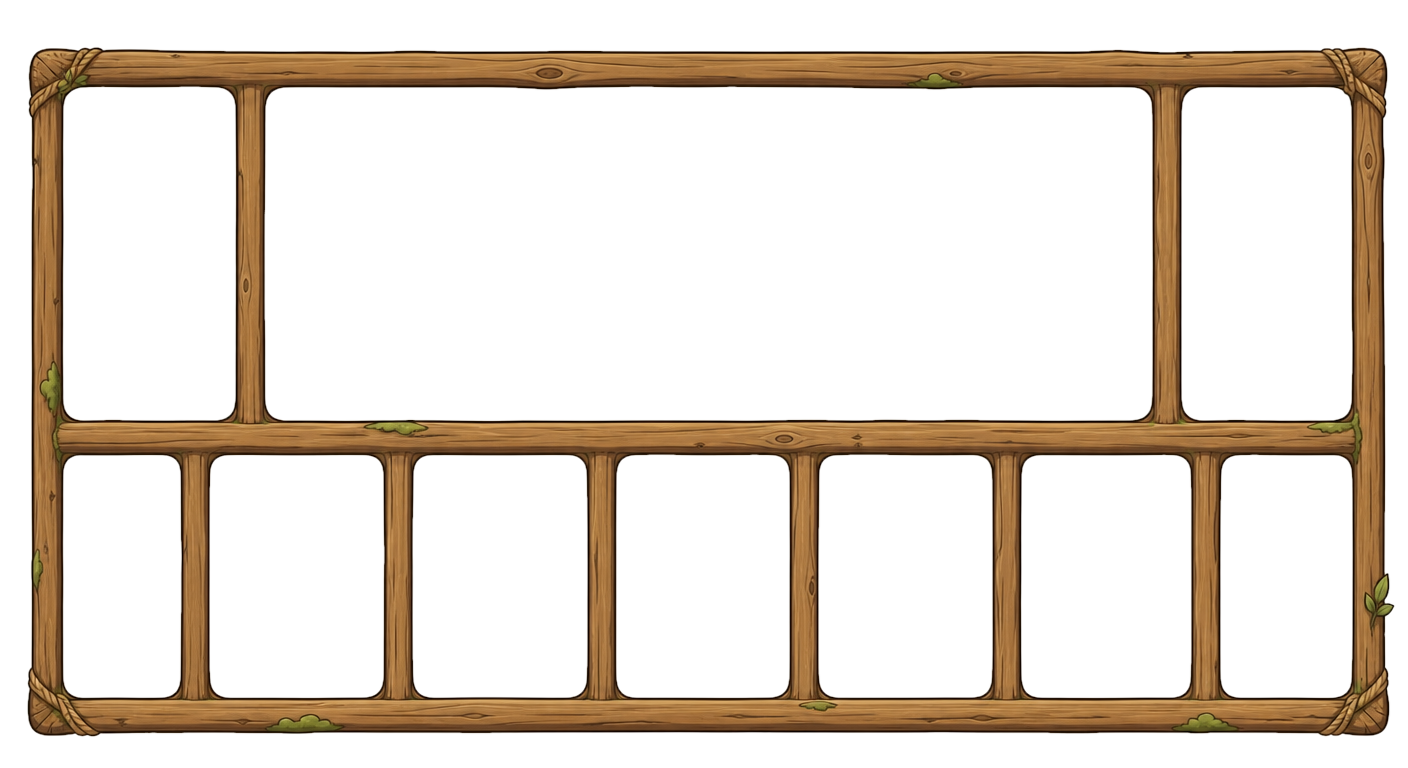
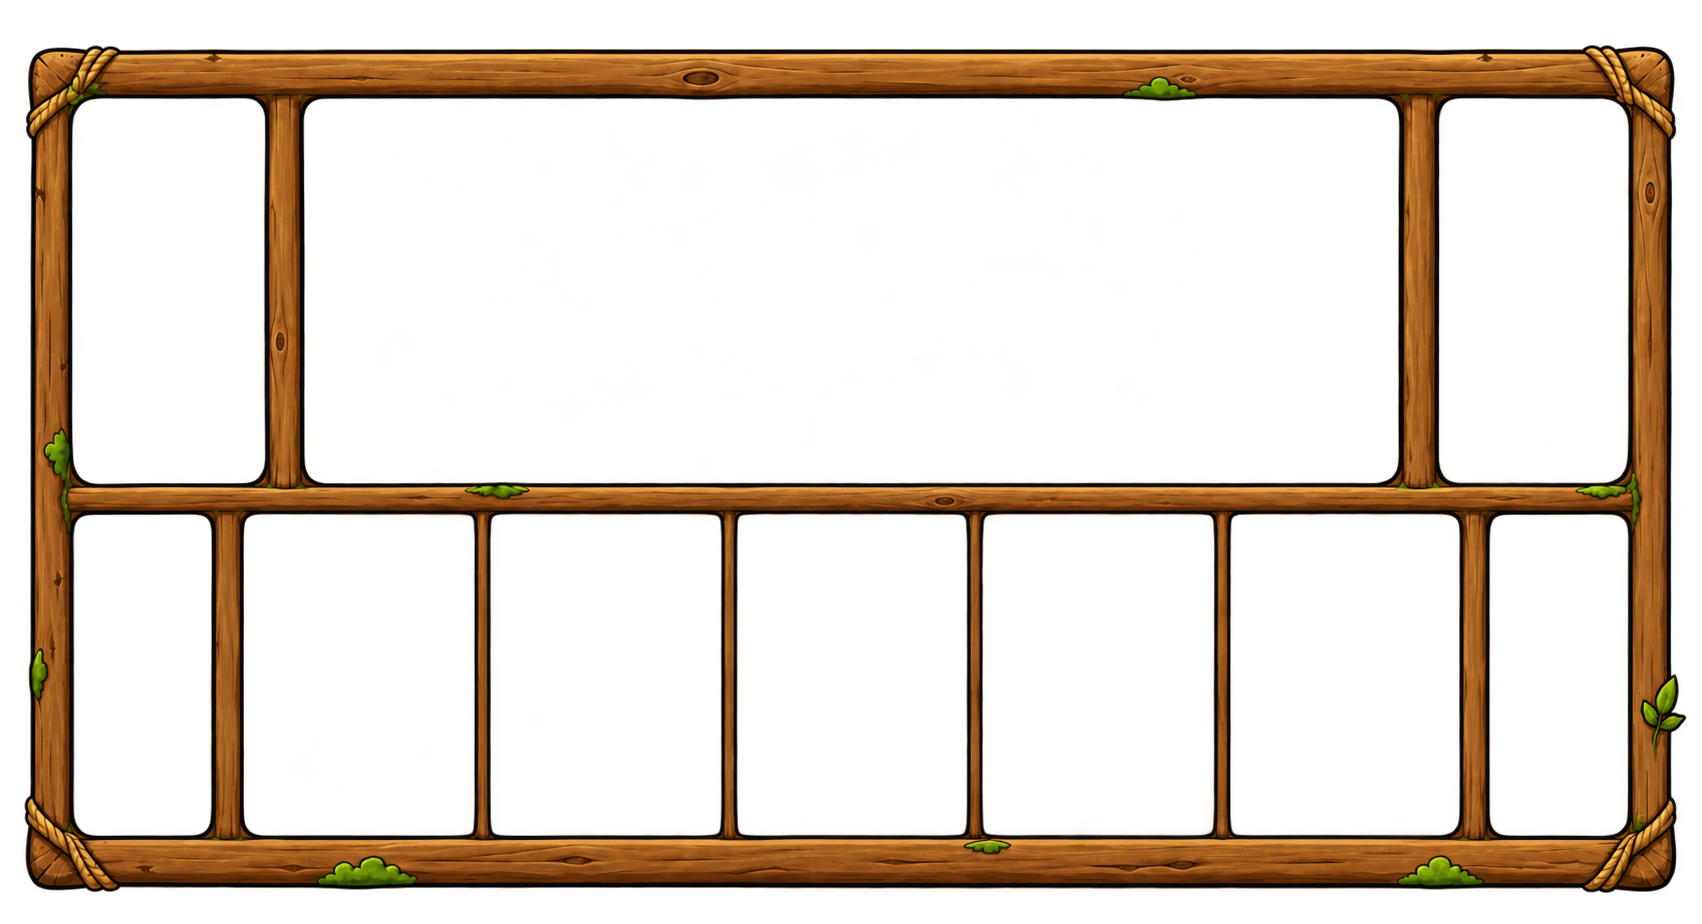
feat: play_frame을 새 그림으로 교체(1654×847) — 경험치 줄을 칸 폭에 맞춤
받은 그림은 나무가 얇아져 칸이 넓어졌다. 지난번 정한 대로 **왼쪽 절반을 뒤집어**
대칭으로 만든 뒤(`mirrorPlayFrame.mjs`) 잘랐다.

    받은 원본  1661×848 — 바깥 여백 좌 6 / 우 15, 바깥 기둥 43 / 47 (오른쪽이 넓다)
    대칭본     1654×847 — 좌우 차이 전부 0

칸 좌표·카드 grid·안내 쪽지 자리·모서리 반지름(22 → 14)을 새 실측으로 갈고,
세로 예산도 함께 고쳤다(0.586 → **0.588**, 액자 비율 690/1352 → 847/1654).
⚠ 이 둘은 짝이다 — 비율만 고치면 세로가 넘치거나 아래가 크게 남는다.

## ⚠ 칸이 좁아지자 경험치 줄이 터졌다
새 액자는 경험치 칸이 12.648% → **11.669%**로 좁다(1366에서 167 → 150px).
그런데 줄 안의 얼굴이 `w-16`(64px) **고정**이라, 레벨 배지와 둘이 폭을 다 먹고
"0/10"의 끝자리가 얼굴 뒤로 들어갔다.

칸 폭(`--exp-w` = 액자 폭 × 칸 비율)에서 얼굴·글씨·게이지·여백을 모두 뽑도록 바꿨다.
액자를 또 갈아끼워 칸 비율이 달라져도 내용이 따라간다 —
⚠ 다만 `--exp-w`의 0.11669는 `.play-cell-exp-*`의 width와 **같은 값**이라 함께 고칠 것.

## 검증
1920에서 액자 x 60 · 폭 1800, 팀 패널 안쪽 여백 좌우 51px로 같다. 1366에서 경험치
네 줄이 겹침 없이 칸 안에 들어간다(확대해 확인). 세 해상도 × 두 단계 넘침 0,
tsc·server 63/63·빌드 통과.

Changed region(s): [[0.0, 0.0312, 1.0, 0.9688]]

diff --git a/client/app/globals.css b/client/app/globals.css
@@ -8,14 +8,14 @@
 
      폭은 **세로 예산**이 정한다 — 둘을 쌓은 높이가 화면을 넘으면 안 되므로:
        상단 바 보이는 높이   W × 189/2500 = 0.0756 W
-       액자 높이             W × 690/1352 = 0.5104 W
-       합                                 ≈ 0.586 W  ≤ 98vh
+       액자 높이             W × 847/1654 = 0.5121 W
+       합                                 ≈ 0.588 W  ≤ 98vh
      가로로는 --stage-pad만큼 양옆을 비운다 — 화면을 꽉 채우지 않는다.
 
-     ⚠ 액자 그림을 갈아끼우면 690/1352과 0.586을 **함께** 고칠 것. 비율만 고치고
-     0.586을 두면 세로가 넘치거나 아래가 크게 남는다. */
+     ⚠ 액자 그림을 갈아끼우면 847/1654와 0.588을 **함께** 고칠 것. 비율만 고치고
+     0.588을 두면 세로가 넘치거나 아래가 크게 남는다. */
   --stage-pad: 2.5vw;
-  --stage-w: min(calc(100vw - var(--stage-pad) * 2), calc(98vh / 0.586));
+  --stage-w: min(calc(100vw - var(--stage-pad) * 2), calc(98vh / 0.588));
   /* 상단 바와 액자 사이 숨통 — 0이면 두 나무가 맞닿아 한 덩어리로 보인다 */
   --stage-gap: 0.8vh;
   --beam-h: calc(var(--stage-w) * 233 / 2500);
@@ -3788,7 +3788,7 @@ body {
      액자 윗변 = 상단 바가 먹은 높이 + (남은 높이 − 액자 높이) / 2
    ⚠ 액자 그림을 갈아끼우면 690/1352를 `.play-frame`과 **함께** 고칠 것. */
 .play-progress-top {
-  --pf-h: calc(var(--stage-w) * 690 / 1352);
+  --pf-h: calc(var(--stage-w) * 847 / 1654);
   --frame-top: calc(var(--beam-vis) + (100vh - var(--beam-vis) - var(--pf-h)) / 2);
   /* 액자 윗변에 **반쯤 걸친다** — 절반은 그 위로 뜬다.
      ⚠ 더 위로 올리면 단계 판의 알약("행동 선택")을 가린다. 판이 들보를 거의 꽉
@@ -3996,9 +3996,9 @@ body {
      폭이 어긋난다. 세로가 넘치지 않는 것은 --stage-w가 이미 "상단 바 + 액자"를
      함께 세어 정하기 때문이다(:root 주석 참고). */
   --pf-w: var(--stage-w);
-  --pf-h: calc(var(--pf-w) * 690 / 1352);
-  /* 칸 모서리 둥글기 — 그림에서 잰 값이 칸마다 14~31px이라 22px 하나로 묶고 배율만큼 줄인다 */
-  --cell-r: calc(var(--pf-w) * 22 / 1352);
+  --pf-h: calc(var(--pf-w) * 847 / 1654);
+  /* 칸 모서리 둥글기 — 그림에서 잰 값이 칸마다 5~21px이라 14px 하나로 묶고 배율만큼 줄인다 */
+  --cell-r: calc(var(--pf-w) * 14 / 1654);
 
   position: relative;
   width: var(--pf-w);
@@ -4019,29 +4019,44 @@ body {
   background: var(--cell-paper, #fee9bb);
 }
 
+/* ── 경험치 줄의 치수 — **칸 폭에서 뽑는다** ─────────────────────────────────
+   칸 폭은 액자 그림이 정하는 값이라 그림을 갈아끼우면 달라진다. 고정 rem으로 두면
+   좁아진 칸에서 얼굴이 숫자를 덮는다 — 실제로 얼굴 64px + 레벨 배지가 폭을 다 먹어
+   "0/10"의 끝자리가 얼굴 뒤로 들어갔다(1366에서 칸이 167 → 150px로 줄었을 때).
+   --exp-w는 칸의 실제 폭이다(액자 폭 × 칸 비율). */
+.play-cell-exp-a,
+.play-cell-exp-b { --exp-w: calc(var(--pf-w) * 0.11669); }
+.exp-row      { gap: calc(var(--exp-w) * 0.035); padding-inline: calc(var(--exp-w) * 0.035); }
+.exp-row-face { width: calc(var(--exp-w) * 0.26); height: calc(var(--exp-w) * 0.26); }
+.exp-row-lv   { padding-inline: calc(var(--exp-w) * 0.045); }
+.exp-row-lv-cap { font-size: calc(var(--exp-w) * 0.062); }
+.exp-row-lv-num { font-size: calc(var(--exp-w) * 0.16); }
+.exp-row-value  { font-size: calc(var(--exp-w) * 0.12); }
+.exp-row-bar    { height: calc(var(--exp-w) * 0.07); }
+
 /* 윗줄 — 좌우 여백이 2.737%로 **같다**(왼쪽 절반을 뒤집어 붙인 그림이라 정의상 대칭) */
-.play-cell-exp-a { left:  2.737%; top:  5.797%; width: 12.648%; height: 48.261%; }
-.play-cell-board { left: 17.604%; top:  5.797%; width: 64.793%; height: 48.261%; }
-.play-cell-exp-b { left: 84.615%; top:  5.797%; width: 12.648%; height: 48.261%; }
+.play-cell-exp-a { left:  2.842%; top:  6.257%; width: 11.669%; height: 45.573%; }
+.play-cell-board { left: 16.868%; top:  6.257%; width: 66.264%; height: 45.455%; }
+.play-cell-exp-b { left: 85.490%; top:  6.257%; width: 11.669%; height: 45.573%; }
 
 /* 아랫줄 양 끝 — 체력. 카드칸(12.87%)보다 좁아야 한다는 조건은 그대로다(8.654%) */
-.play-cell-hp-a  { left:  2.737%; top: 59.275%; width:  8.654%; height: 34.928%; }
-.play-cell-hp-b  { left: 88.609%; top: 59.275%; width:  8.654%; height: 34.928%; }
+.play-cell-hp-a  { left:  2.963%; top: 55.490%; width:  8.343%; height: 37.898%; }
+.play-cell-hp-b  { left: 88.694%; top: 55.490%; width:  8.343%; height: 37.898%; }
 
 /* 기술 카드 다섯 칸 — 낱장으로 흩어 놓지 않고 **띠 하나**로 덮은 뒤 그 안에서 나눈다.
    ⚠ 칸 폭이 248~267px로 제각각이라 `fr`에 실측값을 그대로 넣었다 — 균등 분할하면
    가운데로 갈수록 나무 구멍과 어긋난다(양 끝은 맞는데 3번 칸이 3px씩 밀린다). */
 .play-cards {
   position: absolute;
-  left: 13.536%;
-  top: 59.275%;
-  width: 72.929%;
-  height: 34.928%;
+  left: 13.241%;
+  top: 55.372%;
+  width: 73.519%;
+  height: 38.017%;
 }
 .play-cards-grid {
   display: grid;
-  grid-template-columns: 174fr 174fr 172fr 174fr 174fr;
-  gap: 2.992%;            /* 칸 사이 네 곳의 평균 29.5px */
+  grid-template-columns: 231fr 231fr 230fr 231fr 231fr;
+  gap: 1.275%;            /* 칸 사이 네 곳의 평균 15.5px */
   height: 100%;
 }
 /* 카드 한 장 — 칸과 **같은** 둥글기여야 나무 구멍과 어긋나 보이지 않는다.
@@ -4060,10 +4075,10 @@ body {
    넘쳐 표지판처럼 걸린다 — 가리는 면적이 가장 작은 자리다. */
 .play-prompt-strip {
   position: absolute;
-  left: 17.604%;
-  width: 64.793%;
-  top: 54.058%;    /* 보드 칸 바로 아래(5.797 + 48.261) */
-  height: 5.217%;  /* 카드 줄(59.275)까지 */
+  left: 16.868%;
+  width: 66.264%;
+  top: 51.712%;    /* 보드 칸 바로 아래(6.257 + 45.455) */
+  height: 3.660%;  /* 카드 줄(55.372)까지 */
   z-index: 22;
   pointer-events: none;
 }

diff --git a/client/components/game/ScorePanel.tsx b/client/components/game/ScorePanel.tsx
@@ -56,7 +56,8 @@ function AnimalTable({
   }, [level]);
 
   const face = (
-    <div className="w-16 h-16 shrink-0 flex items-center justify-center">
+    // 크기는 칸 폭에서 뽑는다(.exp-row-face) — 고정 px면 좁은 칸에서 숫자를 덮는다
+    <div className="exp-row-face shrink-0 flex items-center justify-center">
       <img
         src={`/emoticon/${animal}_${level > 0 ? 'happy' : 'focus'}.png`}
         alt={animal}
@@ -68,9 +69,9 @@ function AnimalTable({
   // 레벨 영역은 글자 주변만이 아니라 이 칸에 배정된 공간 전체(위아래 끝까지)를
   // 옅게 다른 색으로 채워, 얼굴/경험치와 시각적으로 확실히 구분되는 하나의 구역처럼 보이게 한다.
   const levelBadge = (
-    <div className="self-stretch shrink-0 flex flex-col items-center justify-center gap-0 px-2.5 bg-jungle-100 rounded-md">
-      <span className="text-2xs font-bold text-jungle-500 leading-none">Lv.</span>
-      <span className="text-2xl font-black text-jungle-700 leading-none tabular-nums">{level}</span>
+    <div className="exp-row-lv self-stretch shrink-0 flex flex-col items-center justify-center gap-0 bg-jungle-100 rounded-md">
+      <span className="exp-row-lv-cap font-bold text-jungle-500 leading-none">Lv.</span>
+      <span className="exp-row-lv-num font-black text-jungle-700 leading-none tabular-nums">{level}</span>
     </div>
   );
 
@@ -98,7 +99,7 @@ function AnimalTable({
       )}
 
       <div
-        className={`h-full border border-gray-200 rounded-lg overflow-hidden bg-white flex items-center gap-2 px-2 ${
+        className={`exp-row h-full border border-gray-200 rounded-lg overflow-hidden bg-white flex items-center ${
           isLevelUp ? 'level-up-shake' : ''
         }`}
         onMouseEnter={handleMouseEnter}
@@ -110,12 +111,12 @@ function AnimalTable({
           {/* 분자(현재 경험치)와 분모(레벨업 기준)는 같은 크기·굵기로 두고 색으로만
               구분한다 — 크기까지 다르면 분모가 부가정보처럼 작아져 잘 안 읽힌다. */}
           <p
-            className={`font-extrabold text-jungle-900 tabular-nums leading-tight text-xl ${isPopping ? 'score-pop' : ''}`}
+            className={`exp-row-value font-extrabold text-jungle-900 tabular-nums leading-tight ${isPopping ? 'score-pop' : ''}`}
             style={isFlashing ? { color: '#22c55e' } : undefined}
           >
             {expInLevel}<span className="text-jungle-400 ml-0.5">/{threshold}</span>
           </p>
-          <div className="w-full h-4 bg-gray-100 rounded-full overflow-hidden">
+          <div className="exp-row-bar w-full bg-gray-100 rounded-full overflow-hidden">
             <div
               className="h-full bg-jungle-500 transition-[width] duration-300"
               style={{ width: `${progressPct}%` }}

diff --git a/client/lib/playAssets.ts b/client/lib/playAssets.ts
@@ -34,7 +34,7 @@ export const PLAY_ASSETS = {
   upperBar: '/play/upper_bar.webp',
 
   /**
-   * 플레이 화면 **통짜 액자**(1352×690) — 칸막이까지 그려진 한 장.
+   * 플레이 화면 **통짜 액자**(1654×847) — 칸막이까지 그려진 한 장.
    *
    * ⚠ 받은 원본(`play_frame_src.png`)은 **좌우가 비대칭**이었다(체력칸 117 대 131).
    * `scripts/mirrorPlayFrame.mjs`가 왼쪽 절반을 뒤집어 붙여 대칭본을 만든다 —

diff --git a/client/public/play/README.md b/client/public/play/README.md
@@ -82,7 +82,7 @@ cd client && node scripts/cutPlaySheet.mjs
 | 클래스 | 그림 | 크기 | 분할 | 값 | 쓰는 곳(높이) |
 | --- | --- | --- | --- | --- | --- |
 | `.play-beam` | **`upper_bar`** | 2500×233 | **분할 없음 — 통째 확대** | 상자 비율을 그림 비율에 맞춤 | 상단 바 (너비의 1/10.73) |
-| `.play-frame` | **`play_frame`** | 1352×690 | **분할 없음 — 통째 확대** | 칸 좌표를 %로 (`.play-cell-*`) | 플레이 화면 전체 |
+| `.play-frame` | **`play_frame`** | 1654×847 | **분할 없음 — 통째 확대** | 칸 좌표를 %로 (`.play-cell-*`) | 플레이 화면 전체 |
 | `.play-nameplate` | (그림 없음 — 팻말이 `upper_bar` 안에 있다) | — | 절대 배치 | x 129 / y 71 / 304×107 (÷237) | 팻말 위 두 줄 |
 | `.play-pill-green` | `pill_green` | 410×227 | 3분할 | 캡 **`--pill-h`×109·92/227** | 팀 알약(우리) |
 | `.play-pill-red` | `pill_red` | 412×228 | 3분할 | 캡 **`--pill-h`×110·91/228** | 팀 알약(상대) |
